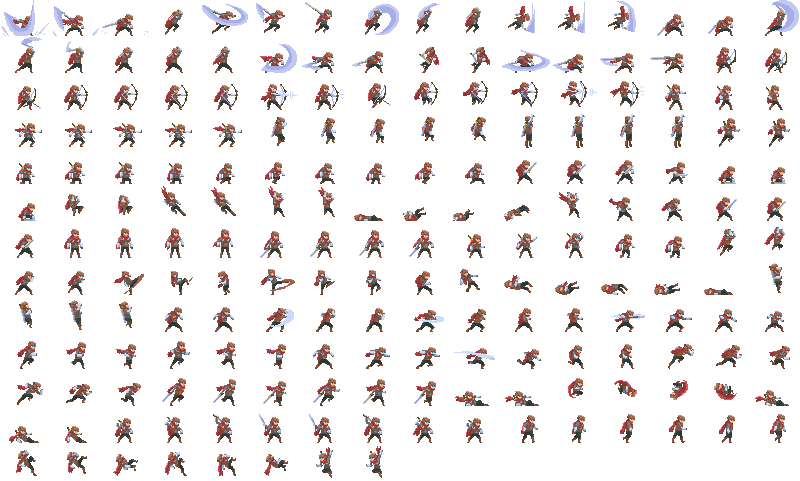
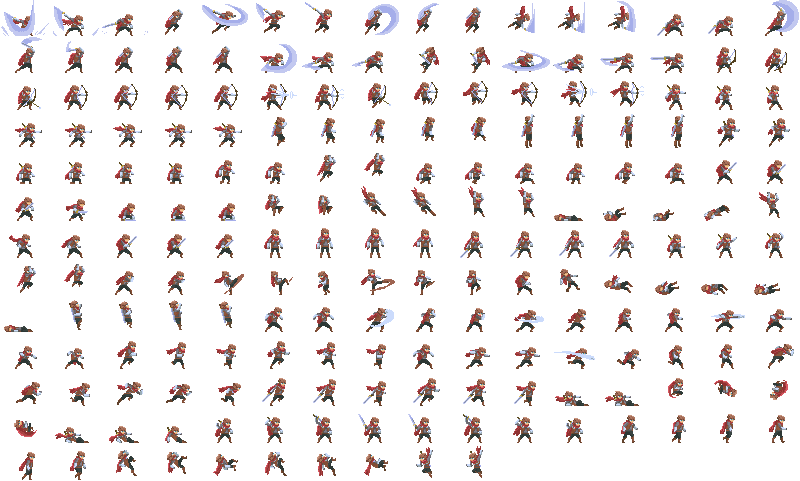
updated jump animation

diff --git a/src/player.cpp b/src/player.cpp
@@ -17,32 +17,33 @@ const std::vector<std::vector<ivec2>> Player::animations = {
 	{ivec2(10, 3), ivec2(11, 3), ivec2(12, 3), ivec2(13, 3)},
 	{ivec2(14, 3), ivec2(15, 3)},
 	{ivec2(0, 4), ivec2(1, 4), ivec2(2, 4), ivec2(3, 4)},
-	{ivec2(4, 4), ivec2(5, 4), ivec2(6, 4), ivec2(7, 4), ivec2(8, 4), ivec2(9, 4)},
-	{ivec2(10, 4), ivec2(11, 4), ivec2(12, 4), ivec2(13, 4), ivec2(14, 4), ivec2(15, 4), ivec2(0, 5)},
-	{ivec2(1, 5), ivec2(2, 5), ivec2(3, 5), ivec2(4, 5)},
-	{ivec2(5, 5), ivec2(6, 5)},
-	{ivec2(7, 5), ivec2(8, 5), ivec2(9, 5), ivec2(10, 5), ivec2(11, 5), ivec2(12, 5), ivec2(13, 5)},
-	{ivec2(14, 5), ivec2(15, 5), ivec2(0, 6)},
-	{ivec2(1, 6), ivec2(2, 6), ivec2(3, 6), ivec2(4, 6)},
+	{ivec2(4, 4), ivec2(5, 4), ivec2(6, 4), ivec2(7, 4)},
+	{ivec2(8, 4), ivec2(9, 4), ivec2(10, 4), ivec2(11, 4), ivec2(12, 4), ivec2(13, 4)},
+	{ivec2(14, 4), ivec2(15, 4), ivec2(0, 5), ivec2(1, 5), ivec2(2, 5), ivec2(3, 5), ivec2(4, 5)},
+	{ivec2(5, 5), ivec2(6, 5), ivec2(7, 5), ivec2(8, 5)},
+	{ivec2(9, 5), ivec2(10, 5)},
+	{ivec2(11, 5), ivec2(12, 5), ivec2(13, 5), ivec2(14, 5), ivec2(15, 5), ivec2(0, 6), ivec2(1, 6)},
+	{ivec2(2, 6), ivec2(3, 6), ivec2(4, 6)},
 	{ivec2(5, 6), ivec2(6, 6), ivec2(7, 6), ivec2(8, 6)},
-	{ivec2(9, 6), ivec2(10, 6), ivec2(11, 6)},
-	{ivec2(12, 6), ivec2(13, 6), ivec2(14, 6), ivec2(15, 6)},
-	{ivec2(0, 7), ivec2(1, 7), ivec2(2, 7), ivec2(3, 7), ivec2(4, 7), ivec2(5, 7), ivec2(6, 7), ivec2(7, 7)},
-	{ivec2(8, 7), ivec2(9, 7), ivec2(10, 7), ivec2(11, 7), ivec2(12, 7), ivec2(13, 7), ivec2(14, 7)},
-	{ivec2(15, 7), ivec2(0, 8), ivec2(1, 8), ivec2(2, 8)},
-	{ivec2(3, 8), ivec2(4, 8), ivec2(5, 8), ivec2(6, 8), ivec2(7, 8), ivec2(8, 8), ivec2(9, 8), ivec2(10, 8), ivec2(11, 8), ivec2(12, 8), ivec2(13, 8), ivec2(14, 8), ivec2(15, 8)},
-	{ivec2(0, 9), ivec2(1, 9), ivec2(2, 9), ivec2(3, 9), ivec2(4, 9), ivec2(5, 9)},
-	{ivec2(6, 9), ivec2(7, 9), ivec2(8, 9), ivec2(9, 9), ivec2(10, 9), ivec2(11, 9), ivec2(12, 9)},
-	{ivec2(13, 9), ivec2(14, 9), ivec2(15, 9), ivec2(0, 10), ivec2(1, 10), ivec2(2, 10)},
-	{ivec2(3, 10), ivec2(4, 10), ivec2(5, 10), ivec2(6, 10), ivec2(7, 10), ivec2(8, 10)},
-	{ivec2(9, 10), ivec2(10, 10)},
-	{ivec2(11, 10), ivec2(12, 10), ivec2(13, 10), ivec2(14, 10)},
-	{ivec2(15, 10), ivec2(0, 11), ivec2(1, 11)},
-	{ivec2(2, 11), ivec2(3, 11), ivec2(4, 11), ivec2(5, 11)},
-	{ivec2(6, 11), ivec2(7, 11), ivec2(8, 11), ivec2(9, 11)},
-	{ivec2(10, 11), ivec2(11, 11), ivec2(12, 11), ivec2(13, 11), ivec2(14, 11), ivec2(15, 11)},
-	{ivec2(0, 12), ivec2(1, 12), ivec2(2, 12), ivec2(3, 12), ivec2(4, 12), ivec2(5, 12)},
-	{ivec2(6, 12), ivec2(7, 12)},
+	{ivec2(9, 6), ivec2(10, 6), ivec2(11, 6), ivec2(12, 6)},
+	{ivec2(13, 6), ivec2(14, 6), ivec2(15, 6)},
+	{ivec2(0, 7), ivec2(1, 7)},
+	{ivec2(2, 7), ivec2(3, 7), ivec2(4, 7), ivec2(5, 7), ivec2(6, 7), ivec2(7, 7), ivec2(8, 7), ivec2(9, 7)},
+	{ivec2(10, 7), ivec2(11, 7), ivec2(12, 7), ivec2(13, 7), ivec2(14, 7), ivec2(15, 7), ivec2(0, 8)},
+	{ivec2(1, 8), ivec2(2, 8), ivec2(3, 8), ivec2(4, 8)},
+	{ivec2(5, 8), ivec2(6, 8), ivec2(7, 8), ivec2(8, 8), ivec2(9, 8), ivec2(10, 8), ivec2(11, 8), ivec2(12, 8), ivec2(13, 8), ivec2(14, 8), ivec2(15, 8), ivec2(0, 9), ivec2(1, 9)},
+	{ivec2(2, 9), ivec2(3, 9), ivec2(4, 9), ivec2(5, 9), ivec2(6, 9), ivec2(7, 9)},
+	{ivec2(8, 9), ivec2(9, 9), ivec2(10, 9), ivec2(11, 9), ivec2(12, 9), ivec2(13, 9), ivec2(14, 9)},
+	{ivec2(15, 9), ivec2(0, 10), ivec2(1, 10), ivec2(2, 10), ivec2(3, 10), ivec2(4, 10)},
+	{ivec2(5, 10), ivec2(6, 10), ivec2(7, 10), ivec2(8, 10), ivec2(9, 10), ivec2(10, 10)},
+	{ivec2(11, 10), ivec2(12, 10)},
+	{ivec2(13, 10), ivec2(14, 10), ivec2(15, 10), ivec2(0, 11)},
+	{ivec2(1, 11), ivec2(2, 11), ivec2(3, 11)},
+	{ivec2(4, 11), ivec2(5, 11), ivec2(6, 11), ivec2(7, 11)},
+	{ivec2(8, 11), ivec2(9, 11), ivec2(10, 11), ivec2(11, 11)},
+	{ivec2(12, 11), ivec2(13, 11), ivec2(14, 11), ivec2(15, 11), ivec2(0, 12), ivec2(1, 12)},
+	{ivec2(2, 12), ivec2(3, 12), ivec2(4, 12), ivec2(5, 12), ivec2(6, 12), ivec2(7, 12)},
+	{ivec2(8, 12), ivec2(9, 12)},
 };
 
 Player::Player(Camera *cam, const std::shared_ptr<TiledTexture> &texture) : RigidBody(texture), cam(cam) {
@@ -234,14 +235,15 @@ void Player::updateAnimation(float time, float dt, World *world) {
 				}
 				else {
 					int frames = animations[a_jump].size();
-					uvpos = animations[a_jump][int(jumptime / jumpanimtime * frames * 1.2f) % frames];
+					std::cout<<frames<<"\n";
+					uvpos = animations[a_jump][int(jumptime / jumpanimtime * frames) % frames];
 				}
 			}
 			else {	// fall
 				jumptime = -1.0f;
 				playAnimation(a_fall);
 				int frames = animations[a_fall].size();
-				uvpos = animations[a_fall][int(time * frames) % frames];
+				uvpos = animations[a_fall][int(time * frames * 2.0f) % frames];
 			}
 		} break;
 		default: break;

diff --git a/include/math/vector.hpp b/include/math/vector.hpp
@@ -357,6 +357,19 @@ namespace math {
 	}
 
 	template<typename type>
+	tvec2<type> clamp(const tvec2<type> &v, type min, type max) {
+		return tvec2<type>(clamp(v.x, min, max), clamp(v.y, min, max));
+	}
+	template<typename type>
+	tvec3<type> clamp(const tvec3<type> &v, type min, type max) {
+		return tvec3<type>(clamp(v.x, min, max), clamp(v.y, min, max), clamp(v.z, min, max));
+	}
+	template<typename type>
+	tvec4<type> clamp(const tvec4<type> &v, type min, type max) {
+		return tvec4<type>(clamp(v.x, min, max), clamp(v.y, min, max), clamp(v.z, min, max), clamp(v.w, min, max));
+	}
+
+	template<typename type>
 	tvec2<type> mix(const tvec2<type> &a, const tvec2<type> &b, float amnt) {
 		return tvec2<type>(mix(a.x, b.x, amnt), mix(a.y, b.y, amnt));
 	}

diff --git a/src/rigidbody.cpp b/src/rigidbody.cpp
@@ -90,6 +90,8 @@ void RigidBody::update(float time, float dt, World *world) {
 		mPushesRightWall = false;
 	}
 
+	speed = clamp(speed, -maxspeed, maxspeed);
+
 	rpos = round((pos + aabbOffset) * 2.0f) / 2;
 	AABB::pos = rpos;
 	transform = mat4().translate(rpos).scale(vec3(scale, 1.0f));

diff --git a/include/rigidbody.hpp b/include/rigidbody.hpp
@@ -50,6 +50,8 @@ public:
 	vec2 scale = 1;
 	float mass = 1;
 
+	float maxspeed = 512.0f;
+
 	vec2 aabbOffset = 0;
 
 	bool mPushedRightWall = false;

diff --git a/include/player.hpp b/include/player.hpp
@@ -39,6 +39,7 @@ public:
 		a_crnr_grb,
 		a_crnr_jmp,
 		a_crouch,
+		a_crouch_jump,
 		a_crouch_walk,
 		a_die,
 		a_drop_kick,
